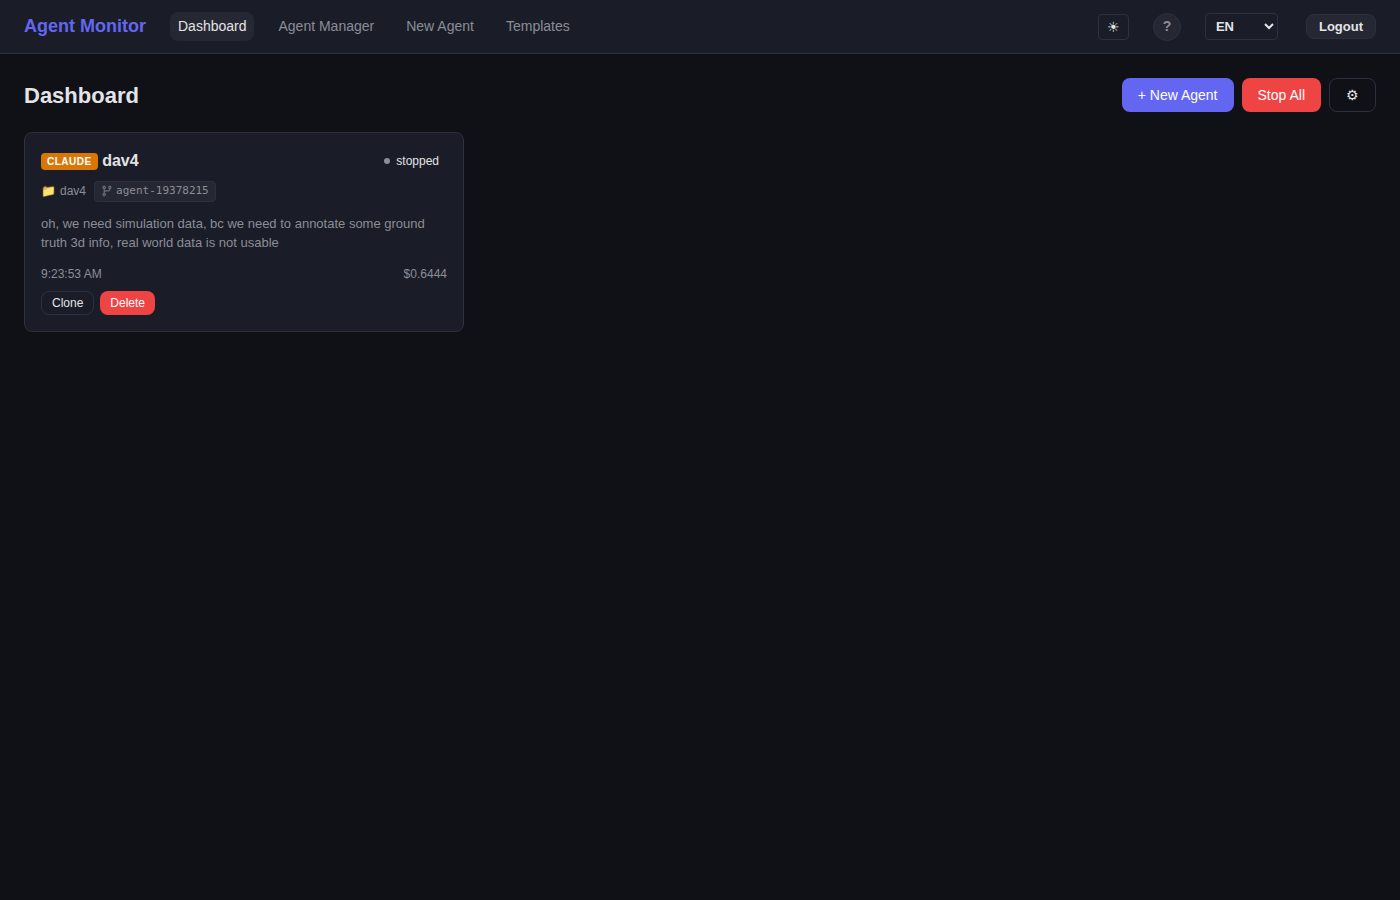
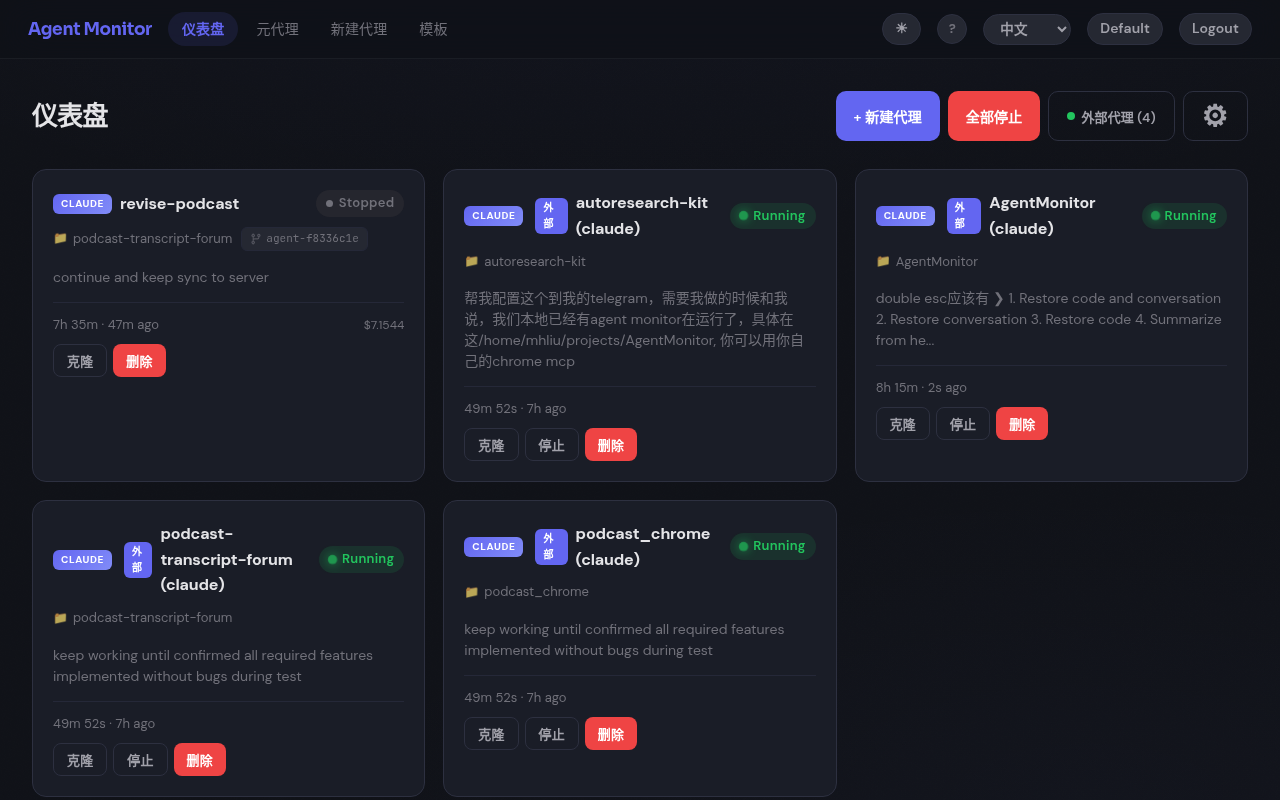
docs: update all screenshots with latest UI (external agents, MD toggle, meta agent)
Re-captured with puppeteer: dashboard, create-agent, agent-chat, terminal,
templates, pipeline, dashboard-zh, and new external-agent screenshot.
Updated README screenshot table to include external agent discovery.

diff --git a/README.md b/README.md
@@ -126,21 +126,21 @@ Phone / Laptop ──HTTP──▶ Public Server (Relay :3457) ◀──WS tunne
 
 ## Screenshots
 
-| Dashboard | Task Pipeline |
-|-----------|---------------|
+| Dashboard | Meta Agent Pipeline |
+|-----------|---------------------|
 | ![Dashboard](docs/screenshots/dashboard.png) | ![Pipeline](docs/screenshots/pipeline.png) |
 
-| Create Agent | Agent Chat |
-|--------------|------------|
+| Create Agent | Agent Chat (Markdown) |
+|--------------|----------------------|
 | ![Create Agent](docs/screenshots/create-agent.png) | ![Agent Chat](docs/screenshots/agent-chat.png) |
+
+| External Agent Discovery | PTY Web Terminal |
+|--------------------------|------------------|
+| ![External Agent](docs/screenshots/external-agent.png) | ![Terminal](docs/screenshots/terminal.png) |
 
 | Templates | Multi-Language Support |
 |-----------|-----------------------|
 | ![Templates](docs/screenshots/templates.png) | ![Dashboard (Chinese)](docs/screenshots/dashboard-zh.png) |
-
-| PTY Web Terminal | |
-|------------------|--|
-| ![Terminal](docs/screenshots/terminal.png) | Interactive shell in the agent's working directory — run commands, launch `claude`, or debug directly from your browser (works locally and via relay) |
 
 ---
 
